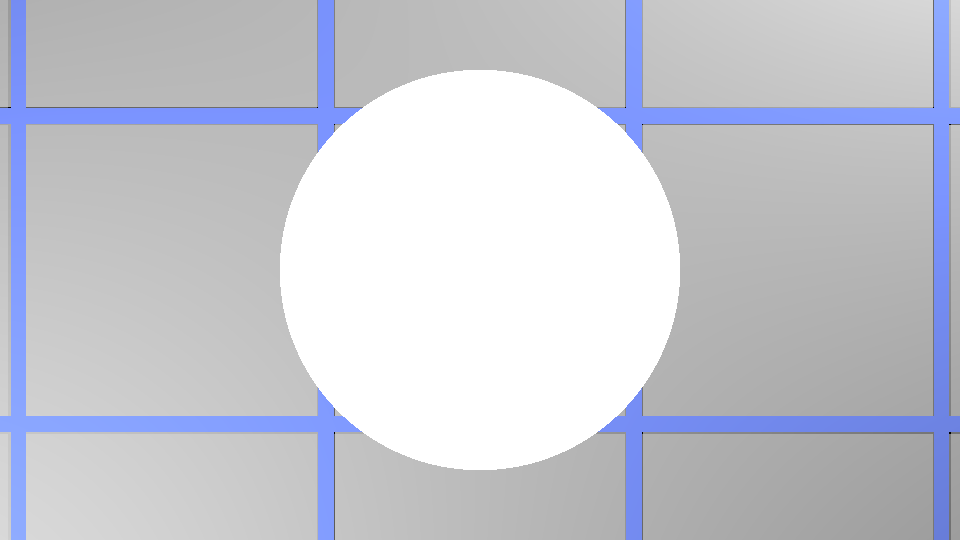
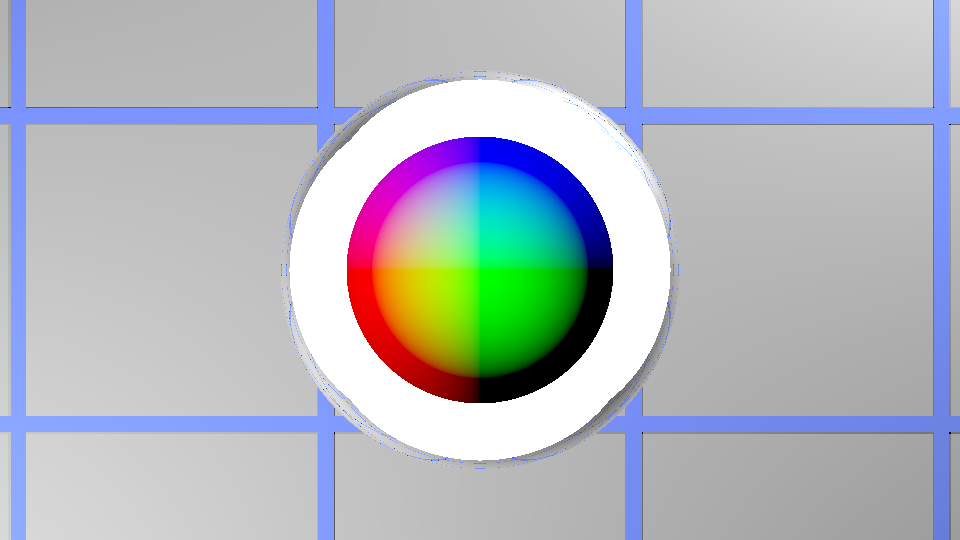
more glass stuff

diff --git a/src/cs4620/ray2/shader/Glass.java b/src/cs4620/ray2/shader/Glass.java
@@ -4,6 +4,7 @@ import cs4620.ray2.RayTracer;
 import cs4620.ray2.IntersectionRecord;
 import cs4620.ray2.Ray;
 import cs4620.ray2.Scene;
+import egl.math.Color;
 import egl.math.Colord;
 import egl.math.Vector3d;
 
@@ -44,68 +45,91 @@ public class Glass extends Shader {
 	@Override
 	public void shade(Colord outIntensity, Scene scene, Ray ray, IntersectionRecord record, int depth) {
 		// TODO#A7: fill in this function.
-        // 1) Determine whether the ray is coming from the inside of the surface or the outside.
+		// 1) Determine whether the ray is coming from the inside of the surface or the outside.
 		
+		//initialize an empty color variable 
+		//to cumulate the colors from the rays
+		Colord cumColor = new Colord(0,0,0);
+		Colord refrColor = new Colord(0,0,0);
+		Colord reflColor = new Colord(0,0,0);
+
 		//get the normal of the surface intersected
 		Vector3d n = record.normal;
-		
+
 		//get the direction of the incoming view ray
 		Vector3d d = ray.direction;
-		
+
 		//find dot product between the 2 vectors
 		double nDotD = n.dot(d);
-		
+
 		//get the reflected ray
 		Vector3d r = d.clone().sub(n.clone().mul(nDotD*2));
-		
+
 		//if the dot product is less than zero 
 		double nt; //refraction index of second (i.e. exit) material
 		double n0; //refractive index of first material
-		
+
 		if(nDotD < 0){
 			//then the ray is traveling out from glass to air
 			nt = 1.0;
 			n0 = refractiveIndex;
-			
+
 		} else {
-		//if the dot product is greater than zero
+			//if the dot product is greater than zero
 			//then the ray is traveling in from air to material
 			nt = refractiveIndex;
 			n0 = 1.0;
-			
+
 		}
-		
-        // 2) Determine whether total internal reflection occurs.
-		
+
+		// 2) Determine whether total internal reflection occurs.
+
 		//if the number under the square root (tiRef) is negative then total internal reflection occurs
-			//nt is the refractive index of the material you're traveling in to
+		//nt is the refractive index of the material you're traveling in to
 		double tiRef = 1 - (((Math.pow(n0,2)*(1-Math.pow(nDotD,2)))/Math.pow(nt,2)));
-		
+
 		//if total internal reflection occurs return the color in out intensity
 		if(tiRef  < 0){
 			//reflected view Ray  ??HOW 
 			double r0 = Math.pow((n0-1),2)/Math.pow((n0+1),2);
 			double rTheta = r0+(1-r0)*Math.pow((1-nDotD),5);
-			
+
 			Ray rRay = new Ray(record.location, r);
+			rRay.makeOffsetRay();
 			RayTracer.shadeRay(outIntensity, scene, rRay, depth);
-		}
-		
-        // 3) Compute the reflected ray and refracted ray (if total internal reflection does not occur)
-        //    using Snell's law and call RayTracer.shadeRay on them to shade them
-	
-		// compute the reflected ray	
+		} else {
+
+			// 3) Compute the reflected ray and refracted ray (if total internal reflection does not occur)
+			//    using Snell's law and call RayTracer.shadeRay on them to shade them
+
+			// compute the reflected ray	
 			//call raytracer shaderay on the reflected ray
-		Ray rRay = new Ray(record.location, r);
-		RayTracer.shadeRay(outIntensity, scene, rRay, depth);
-		
-		// compute the refracted ray
-		Vector3d t = (d.sub(n.mul((d.dot(n)))).mul(n0).div(nt)).sub(n.mul((Math.sqrt(tiRef))));
-		Ray tRay = new Ray(record.location, t);
+			Ray rRay = new Ray(record.location, r);
+			rRay.makeOffsetRay();
+			RayTracer.shadeRay(reflColor, scene, rRay, depth);
+
+			// compute the refracted ray
+			Vector3d t = (d.sub(n.mul((d.dot(n)))).mul(n0).div(nt)).sub(n.mul((Math.sqrt(tiRef))));
+			Ray tRay = new Ray(record.location, t);
+			tRay.makeOffsetRay();
 
 			//call raytracer shaderay on the refracted ray
-		RayTracer.shadeRay(outIntensity, scene, tRay, depth);
-		
-        
+			RayTracer.shadeRay(refrColor, scene, tRay, depth);
+			
+			//testing the t ray value
+			double testcolorx = t.x;
+			double testcolory = t.y;
+			double testcolorz = t.z;
+			Colord red = new Colord(testcolorx, testcolory, testcolorz);
+			
+			//testing adding refracted and reflected color
+			//cumColor.add(red);
+			//cumColor.add(reflColor);
+			refrColor.mul(.5);
+			cumColor.add(refrColor);
+			outIntensity.set(red);
+		}
+
+
 	}
 }

diff --git a/src/cs4620/ray2/accel/Bvh.java b/src/cs4620/ray2/accel/Bvh.java
@@ -7,6 +7,7 @@ import java.util.Comparator;
 
 import cs4620.ray2.IntersectionRecord;
 import cs4620.ray2.Ray;
+import cs4620.ray2.RayRecord;
 import cs4620.ray2.surface.Surface;
 import egl.math.Vector3d;
 
@@ -60,36 +61,55 @@ public class Bvh implements AccelStruct {
 		// Hint: For a leaf node, use a normal linear search. Otherwise, search in the left and right children.
 		// Another hint: save time by checking if the ray intersects the node first before checking the childrens.
 
-//		if(!node.intersects(rayIn)){
-//			return false;
-//		}
-
-<<<<<<< HEAD
 		if(!node.intersects(rayIn)){
 			return false;
 		}
+		
+		// make a copy of rayIn
+		Ray newRay = new Ray(rayIn.origin, rayIn.direction);
+		// create new InterestectionRecord
+		IntersectionRecord newOutRecord = new IntersectionRecord();
+		// make newOutRecord a copy of OutRecord ??
+		newOutRecord.set(outRecord);
 
-		//dont have to check twice
-		if(node.intersects(rayIn)){
+		if(node.intersects(newRay)){
+			
+			// Check if leaf
 			if(node.isLeaf()){
 				for (int i = node.surfaceIndexStart; i < node.surfaceIndexEnd; i++) {
+					// supposed to pass a fresh/new outRecord/IntersectRecord and copied ray to the leaf of object intersect function 
+
+// Nick, I don't know what else to try.
+// it sort of works when you use the old outRecord and rayIn
+// with the copies I made, nothing works.
+// in any configuration...
+// i tried to comment as clearly as possible 
+// and left a few of the options that didn't work for me with the Ctrl+/ comments
+// not sure what else to try...
+					
+//					if(surfaces[i].intersect(newOutRecord, newRay)){
 					if(surfaces[i].intersect(outRecord, rayIn)){
-						//need to fill out outrecord
-=======
-		if (node.intersects(rayIn)) {
-			if (node.isLeaf()) {
-				for (int i = node.surfaceIndexStart; i < node.surfaceIndexEnd; i++) {
-					if (surfaces[i].intersect(outRecord, rayIn)) {
->>>>>>> origin/master
+						// check IntersectionRecord at each iteration + get returned t value ??
+						if (newOutRecord.t < outRecord.t){
+							outRecord.t = newOutRecord.t;
+							// decrease t value of copied ray (newRay) to be the t value of the outrecord you just got back 
+						}
 						return true;
 					}
 				}
 				return false;
 			}
+			
+			// Check if node
+			// then left subtree.. supposed to create a new IntersectionRecord.. and copy ray
+//			if (intersectHelper(node.child[0], newOutRecord, newRay = new Ray(rayIn.origin, rayIn.direction), anyIntersection)) {
+//			if (intersectHelper(node.child[0], newOutRecord, newRay, anyIntersection)) {
 			if (intersectHelper(node.child[0], outRecord, rayIn, anyIntersection)) {
 				return true;
 			}
 			;
+			// and then right subtree..
+//			if (intersectHelper(node.child[1], newOutRecord, newRay, anyIntersection)) {
 			if (intersectHelper(node.child[1], outRecord, rayIn, anyIntersection)) {
 				return true;
 			}

diff --git a/src/cs4620/ray2/surface/Cylinder.java b/src/cs4620/ray2/surface/Cylinder.java
@@ -153,19 +153,30 @@ public class Cylinder extends Surface {
 		//transform that bounding box
 		//compute bounding box for that box
 
-		// Basic setup
+		// Instatiate minBound, maxBound, averagePosition
 		this.minBound = new Vector3d();
 		this.maxBound = new Vector3d();
 		this.averagePosition = new Vector3d();
+		// Basic setup
+		double centerX = this.center.x;
+		double centerY = this.center.y;
+		double centerZ = this.center.z;
+		double rad = this.radius;
+		double halfH = this.height/2;
 		Vector3d min = new Vector3d(
-				this.center.x - this.radius, 
-				this.center.y - this.radius, 
-				this.center.z - this.height/2);
+				centerX - rad, 
+				centerY - rad, 
+				centerZ - halfH);
 		Vector3d max = new Vector3d(
-				this.center.x + this.radius, 
-				this.center.y + this.radius, 
-				this.center.z + this.height/2);
-
+				centerX + rad, 
+				centerY + rad, 
+				centerZ + halfH);
+		
+		// Transform and set averagePosition
+		Vector3d c = new Vector3d(centerX, centerY, centerZ);
+		this.tMat.mulPos(c);
+		this.averagePosition.set(c);
+		
 		// Construct a bounding box in object space from the mins and the maxs
 		Vector3d pt0 = new Vector3d(min.x, min.y, min.z);
 		Vector3d pt1 = new Vector3d(max.x, min.y, min.z);
@@ -192,7 +203,7 @@ public class Cylinder extends Surface {
 		Vector3d tempCur = new Vector3d(pt0.x, pt0.y, pt0.z);
 		Vector3d tempMin = new Vector3d(pt0.x, pt0.y, pt0.z);
 		Vector3d tempMax = new Vector3d(pt0.x, pt0.y, pt0.z);
-		Vector3d tempAvg = new Vector3d(pt0.x, pt0.y, pt0.z);
+//		Vector3d tempAvg = new Vector3d(pt0.x, pt0.y, pt0.z);
 
 		// Loop through remaining cases
 		for (int i = 1; i < ptArray.length; i++) {
@@ -223,8 +234,8 @@ public class Cylinder extends Surface {
 				tempMax.z = tempCur.z;
 			}
 
-			// add current x, y, and z to cumulative tempAvg
-			tempAvg.add(tempCur);
+//			// add current x, y, and z to cumulative tempAvg
+//			tempAvg.add(tempCur);
 
 		}
 
@@ -232,10 +243,10 @@ public class Cylinder extends Surface {
 		this.minBound.set(tempMin);
 		this.maxBound.set(tempMax);
 
-		// Average the cumulative tempAvg
-		tempAvg.mul(1 / ptArray.length);
-		// Set averagePosition
-		this.averagePosition.set(tempAvg);
+//		// Average the cumulative tempAvg
+//		tempAvg.mul(1 / ptArray.length);
+//		// Set averagePosition
+//		this.averagePosition.set(tempAvg);
         
 	}
 

diff --git a/src/cs4620/ray2/surface/Sphere.java b/src/cs4620/ray2/surface/Sphere.java
@@ -108,18 +108,28 @@ public class Sphere extends Surface {
 		// in
 		// averagePosition, minBound, and maxBound.
 
-		// Basic setup
+		// Instatiate minBound, maxBound, averagePosition
 		this.minBound = new Vector3d();
 		this.maxBound = new Vector3d();
 		this.averagePosition = new Vector3d();
+		// Basic setup
+		double centerX = this.center.x;
+		double centerY = this.center.y;
+		double centerZ = this.center.z;
+		double rad = this.radius;
 		Vector3d min = new Vector3d(
-				this.center.x - this.radius, 
-				this.center.y - this.radius, 
-				this.center.z - this.radius);
+				centerX - rad, 
+				centerY - rad, 
+				centerZ - rad);
 		Vector3d max = new Vector3d(
-				this.center.x + this.radius, 
-				this.center.y + this.radius, 
-				this.center.z + this.radius);
+				centerX + rad, 
+				centerY + rad, 
+				centerZ + rad);
+		
+		// Transform and set averagePosition
+		Vector3d c = new Vector3d(centerX, centerY, centerZ);
+		this.tMat.mulPos(c);
+		this.averagePosition.set(c);
 
 		// Construct a bounding box in object space from the mins and the maxs
 		Vector3d pt0 = new Vector3d(min.x, min.y, min.z);
@@ -147,7 +157,7 @@ public class Sphere extends Surface {
 		Vector3d tempCur = new Vector3d(pt0.x, pt0.y, pt0.z);
 		Vector3d tempMin = new Vector3d(pt0.x, pt0.y, pt0.z);
 		Vector3d tempMax = new Vector3d(pt0.x, pt0.y, pt0.z);
-		Vector3d tempAvg = new Vector3d(pt0.x, pt0.y, pt0.z);
+//		Vector3d tempAvg = new Vector3d(pt0.x, pt0.y, pt0.z);
 
 		// Loop through remaining cases
 		for (int i = 1; i < ptArray.length; i++) {
@@ -178,8 +188,8 @@ public class Sphere extends Surface {
 				tempMax.z = tempCur.z;
 			}
 
-			// add current x, y, and z to cumulative tempAvg
-			tempAvg.add(tempCur);
+//			// add current x, y, and z to cumulative tempAvg
+//			tempAvg.add(tempCur);
 
 		}
 
@@ -187,10 +197,10 @@ public class Sphere extends Surface {
 		this.minBound.set(tempMin);
 		this.maxBound.set(tempMax);
 
-		// Average the cumulative tempAvg
-		tempAvg.mul(1 / ptArray.length);
-		// Set averagePosition
-		this.averagePosition.set(tempAvg);
+//		// Average the cumulative tempAvg
+//		tempAvg.mul(1 / ptArray.length);
+//		// Set averagePosition
+//		this.averagePosition.set(tempAvg);
 	}
 
 	/**
